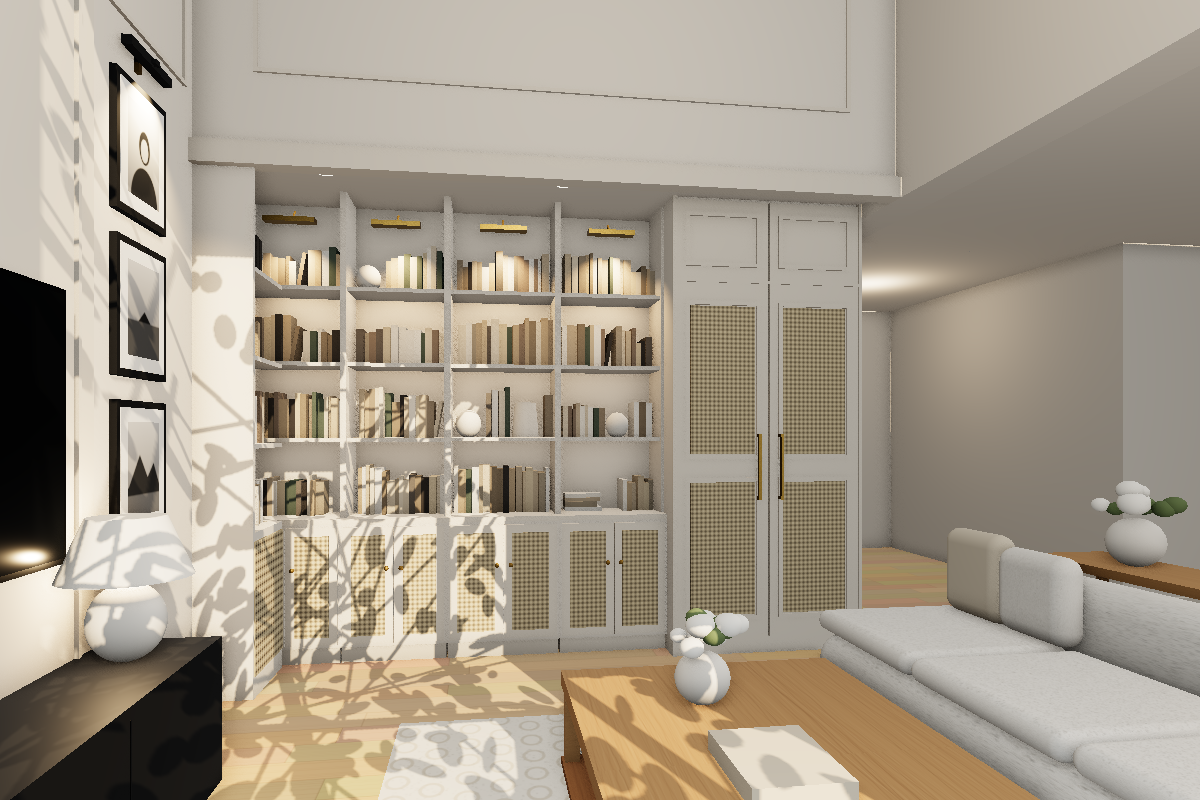
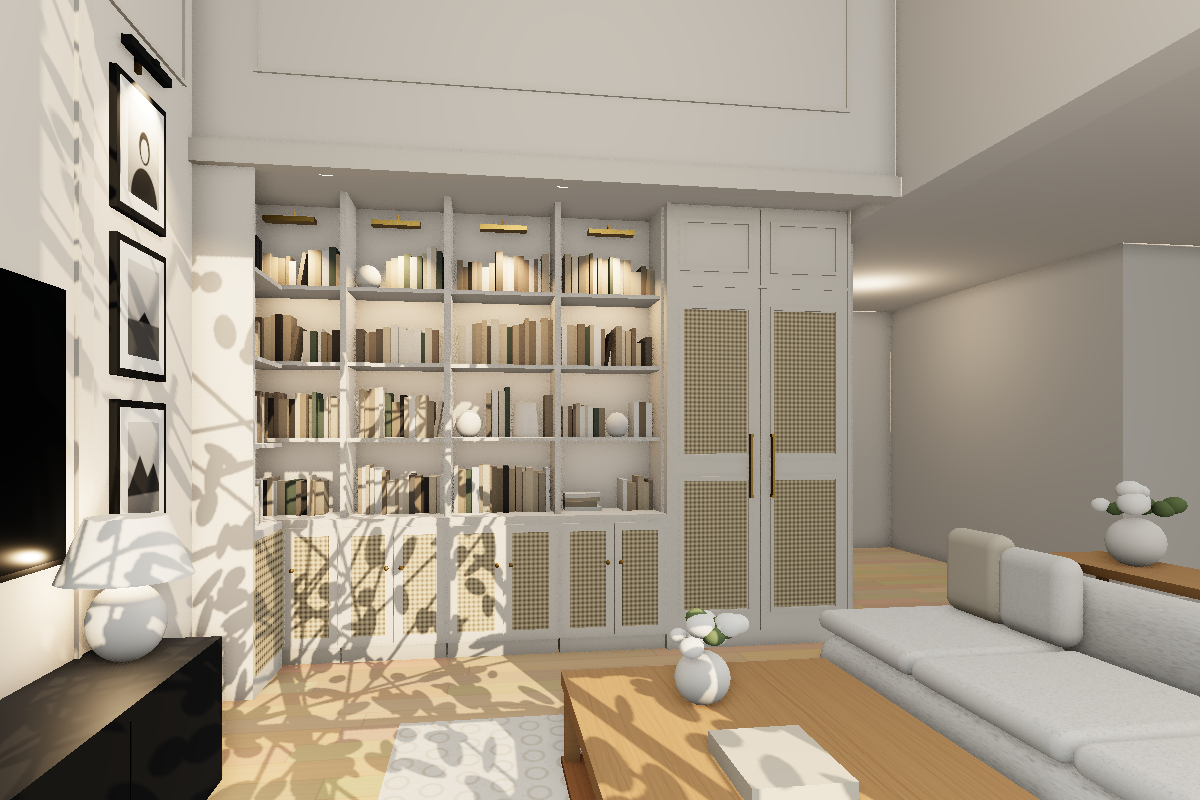
Biblioteka + szafa: szafa spłycona do 45 cm (lico z biblioteką)
Claude-Session: https://claude.ai/code/session_01STLbtYii5p8wK44WZJV9Pu

Changed region(s): [[0.555, 0.25, 0.74, 0.8438]]

diff --git a/koncepcje/salon-wneka/model-szafa/index.html b/koncepcje/salon-wneka/model-szafa/index.html
@@ -9,7 +9,7 @@ button{border:1px solid #d9cfbf;background:#fff;border-radius:999px;padding:7px 
 #load{position:fixed;inset:0;display:flex;align-items:center;justify-content:center;font:18px Georgia,serif;color:#7a6f63}
 </style><script type="importmap">{"imports":{"three":"https://cdn.jsdelivr.net/npm/three@0.170.0/build/three.module.js","three/addons/":"https://cdn.jsdelivr.net/npm/three@0.170.0/examples/jsm/"}}</script></head><body>
 <div id="load">Ładowanie modelu 3D…</div>
-<div id="hd"><b>Wnęka: biblioteka + szafa</b><span>Koncepcja 1 bez ławy i drabiny: 4 moduły biblioteczne + półki na krótkiej ścianie, po prawej (od strony holu) szafa 127 × 60 cm do sufitu wnęki – kremowe fronty z plecionką, mosiężne uchwyty. Przeciągnij, żeby obracać.</span></div>
+<div id="hd"><b>Wnęka: biblioteka + szafa</b><span>Koncepcja 1 bez ławy i drabiny: 4 moduły biblioteczne + półki na krótkiej ścianie, po prawej (od strony holu) szafa 127 × 45 cm (w licu biblioteki) do sufitu wnęki – kremowe fronty z plecionką, mosiężne uchwyty. Przeciągnij, żeby obracać.</span></div>
 <div id="ui"><div class="grp"><span class="lab">Wersja</span><button data-c="k1w" class="on">Biblioteka + szafa</button><button data-c="1">Koncepcja 1 (z ławą)</button></div>
 <div class="grp"><span class="lab">Widok</span><button data-v="wneka" class="on">Wnęka</button><button data-v="salon">Salon</button><button data-v="okno">Od wnęki</button><button data-v="gora">Z góry</button></div></div>
 <script>window.__ready=()=>{document.getElementById('load').remove();window.__go('wneka');
@@ -351,8 +351,8 @@ function conceptK1W() {
   B(45, 102, 0, 30, 0, 10, mat.wall2); B(45, 102, 0, 30, 10, 85, mat.wall); B(45, 102, 30, 31, 12, 83, mat.cane);
   for (const h of [85, 132, 179, 226]) { B(45, 102, 0, 30, h, h + 2.5, mat.wall); shelf('x', 46, 101, h + 2.5, 28, 44, 0, 1); }
   B(100, 102, 0, 30, 85, HN, mat.wall);
-  // SZAFA po prawej (od strony holu): 127 cm, gł. 60, do sufitu wnęki, 2 skrzydła z plecionką
-  const Y0 = 267, Y1 = BEAM0, SD = 60, ym = (Y0 + Y1) / 2;
+  // SZAFA po prawej (od strony holu): 127 cm, gł. 45 (lico z biblioteką), do sufitu wnęki, 2 skrzydła z plecionką
+  const Y0 = 267, Y1 = BEAM0, SD = 45, ym = (Y0 + Y1) / 2;
   B(0, SD, Y0, Y1, 0, 10, mat.wall2); B(0, SD - 2, Y0, Y1, 10, HN, mat.wall);
   B(0, SD + 1, Y0, Y0 + 2.5, 0, HN, mat.wall2); B(0, SD + 1, Y1 - 2.5, Y1, 0, HN, mat.wall2); // boki
   for (const [p, q] of [[Y0 + 2.5, ym - .4], [ym + .4, Y1 - 2.5]]) {

diff --git a/koncepcje/dom-3d/scene.js b/koncepcje/dom-3d/scene.js
@@ -333,8 +333,8 @@ function conceptK1W() {
   B(45, 102, 0, 30, 0, 10, mat.wall2); B(45, 102, 0, 30, 10, 85, mat.wall); B(45, 102, 30, 31, 12, 83, mat.cane);
   for (const h of [85, 132, 179, 226]) { B(45, 102, 0, 30, h, h + 2.5, mat.wall); shelf('x', 46, 101, h + 2.5, 28, 44, 0, 1); }
   B(100, 102, 0, 30, 85, HN, mat.wall);
-  // SZAFA po prawej (od strony holu): 127 cm, gł. 60, do sufitu wnęki, 2 skrzydła z plecionką
-  const Y0 = 267, Y1 = BEAM0, SD = 60, ym = (Y0 + Y1) / 2;
+  // SZAFA po prawej (od strony holu): 127 cm, gł. 45 (lico z biblioteką), do sufitu wnęki, 2 skrzydła z plecionką
+  const Y0 = 267, Y1 = BEAM0, SD = 45, ym = (Y0 + Y1) / 2;
   B(0, SD, Y0, Y1, 0, 10, mat.wall2); B(0, SD - 2, Y0, Y1, 10, HN, mat.wall);
   B(0, SD + 1, Y0, Y0 + 2.5, 0, HN, mat.wall2); B(0, SD + 1, Y1 - 2.5, Y1, 0, HN, mat.wall2); // boki
   for (const [p, q] of [[Y0 + 2.5, ym - .4], [ym + .4, Y1 - 2.5]]) {
